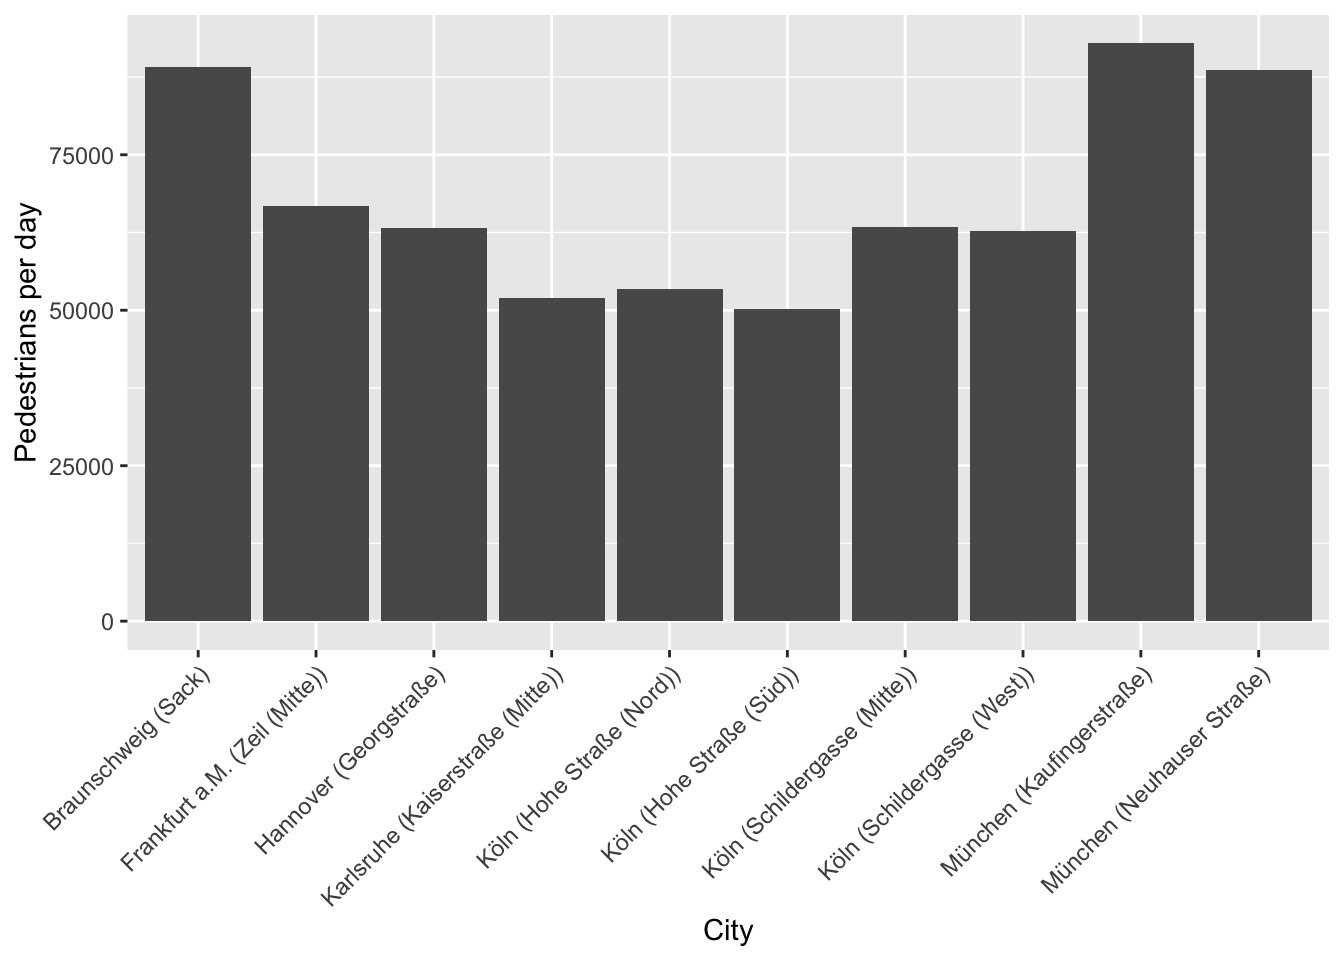
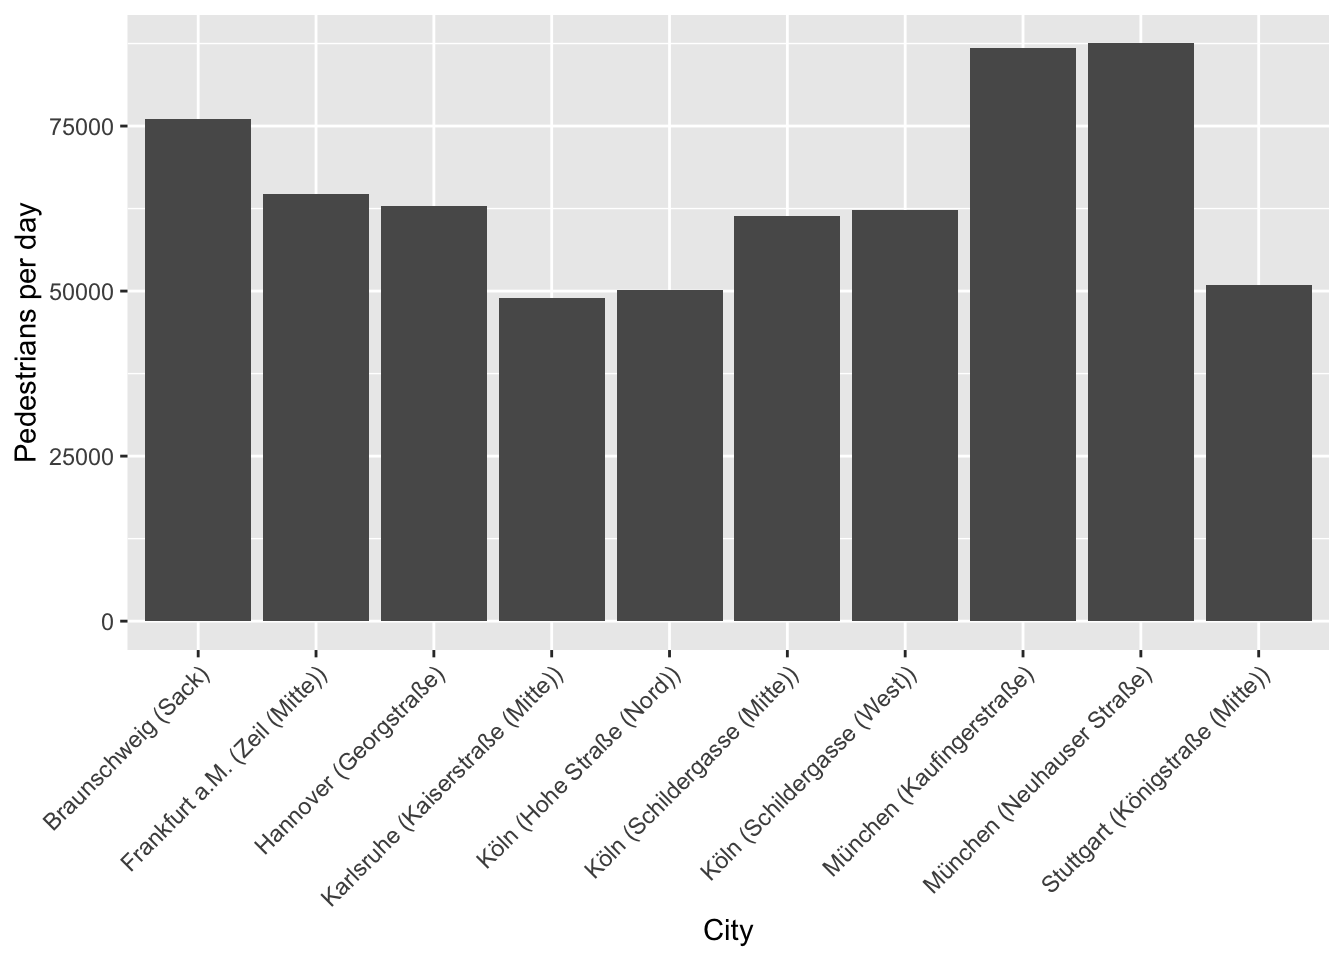
prepare for CRAN

diff --git a/docs/index.html b/docs/index.html
@@ -166,13 +166,13 @@ today\_count
 <tbody><tr>
 <td style="text-align:right;">
 
-110
+114
 
 </td>
 
 <td style="text-align:right;">
 
-272711
+1832006
 
 </td>
 
@@ -207,6 +207,26 @@ city
 
 </tr></thead>
 <tbody>
+<tr>
+<td style="text-align:right;">
+
+251
+
+</td>
+
+<td style="text-align:left;">
+
+Annastraße
+
+</td>
+
+<td style="text-align:left;">
+
+Augsburg
+
+</td>
+
+</tr>
 <tr>
 <td style="text-align:right;">
 
@@ -387,26 +407,6 @@ Köln
 </td>
 
 </tr>
-<tr>
-<td style="text-align:right;">
-
-57
-
-</td>
-
-<td style="text-align:left;">
-
-Schlösserstraße
-
-</td>
-
-<td style="text-align:left;">
-
-Erfurt
-
-</td>
-
-</tr>
 </tbody>
 </table>
 </div>
@@ -490,11 +490,11 @@ Erfurt
 <a class="sourceLine" id="cb14-2" data-line-number="2"><span class="st">  </span><span class="kw">top_n</span>(<span class="dv">5</span>, ratio) <span class="op">%&gt;%</span><span class="st"> </span></a>
 <a class="sourceLine" id="cb14-3" data-line-number="3"><span class="st">  </span><span class="kw">arrange</span>(<span class="kw">desc</span>(ratio))</a>
 <a class="sourceLine" id="cb14-4" data-line-number="4"><span class="co">##    id                       station    ratio</span></a>
-<a class="sourceLine" id="cb14-5" data-line-number="5"><span class="co">## 1 165     München (Kaufingerstraße) 92893.67</span></a>
-<a class="sourceLine" id="cb14-6" data-line-number="6"><span class="co">## 2 131           Braunschweig (Sack) 89040.85</span></a>
-<a class="sourceLine" id="cb14-7" data-line-number="7"><span class="co">## 3  73    München (Neuhauser Straße) 88615.60</span></a>
-<a class="sourceLine" id="cb14-8" data-line-number="8"><span class="co">## 4 150 Frankfurt a.M. (Zeil (Mitte)) 66732.31</span></a>
-<a class="sourceLine" id="cb14-9" data-line-number="9"><span class="co">## 5 159  Köln (Schildergasse (Mitte)) 63316.30</span></a></code></pre></div>
+<a class="sourceLine" id="cb14-5" data-line-number="5"><span class="co">## 1  73    München (Neuhauser Straße) 87505.83</span></a>
+<a class="sourceLine" id="cb14-6" data-line-number="6"><span class="co">## 2 165     München (Kaufingerstraße) 86875.90</span></a>
+<a class="sourceLine" id="cb14-7" data-line-number="7"><span class="co">## 3 131           Braunschweig (Sack) 76076.67</span></a>
+<a class="sourceLine" id="cb14-8" data-line-number="8"><span class="co">## 4 150 Frankfurt a.M. (Zeil (Mitte)) 64686.28</span></a>
+<a class="sourceLine" id="cb14-9" data-line-number="9"><span class="co">## 5  63        Hannover (Georgstraße) 62961.07</span></a></code></pre></div>
 <p>Now let´s visualise the top 10 cities:</p>
 <div class="sourceCode" id="cb15"><pre class="sourceCode r"><code class="sourceCode r"><a class="sourceLine" id="cb15-1" data-line-number="1"><span class="kw">ggplot</span>(ratio <span class="op">%&gt;%</span><span class="st"> </span></a>
 <a class="sourceLine" id="cb15-2" data-line-number="2"><span class="st">         </span><span class="kw">top_n</span>(<span class="dv">10</span>,ratio), <span class="kw">aes</span>(station, ratio)) <span class="op">+</span></a>

diff --git a/README.md b/README.md
@@ -109,13 +109,13 @@ today\_count
 
 <td style="text-align:right;">
 
-110
+114
 
 </td>
 
 <td style="text-align:right;">
 
-272711
+1832006
 
 </td>
 
@@ -167,6 +167,28 @@ city
 </thead>
 
 <tbody>
+
+<tr>
+
+<td style="text-align:right;">
+
+251
+
+</td>
+
+<td style="text-align:left;">
+
+Annastraße
+
+</td>
+
+<td style="text-align:left;">
+
+Augsburg
+
+</td>
+
+</tr>
 
 <tr>
 
@@ -366,28 +388,6 @@ Köln
 
 </tr>
 
-<tr>
-
-<td style="text-align:right;">
-
-57
-
-</td>
-
-<td style="text-align:left;">
-
-Schlösserstraße
-
-</td>
-
-<td style="text-align:left;">
-
-Erfurt
-
-</td>
-
-</tr>
-
 </tbody>
 
 </table>
@@ -504,11 +504,11 @@ ratio %>%
   top_n(5, ratio) %>% 
   arrange(desc(ratio))
 ##    id                       station    ratio
-## 1 165     München (Kaufingerstraße) 92893.67
-## 2 131           Braunschweig (Sack) 89040.85
-## 3  73    München (Neuhauser Straße) 88615.60
-## 4 150 Frankfurt a.M. (Zeil (Mitte)) 66732.31
-## 5 159  Köln (Schildergasse (Mitte)) 63316.30
+## 1  73    München (Neuhauser Straße) 87505.83
+## 2 165     München (Kaufingerstraße) 86875.90
+## 3 131           Braunschweig (Sack) 76076.67
+## 4 150 Frankfurt a.M. (Zeil (Mitte)) 64686.28
+## 5  63        Hannover (Georgstraße) 62961.07
 ```
 
 Now let´s visualise the top 10 cities:
